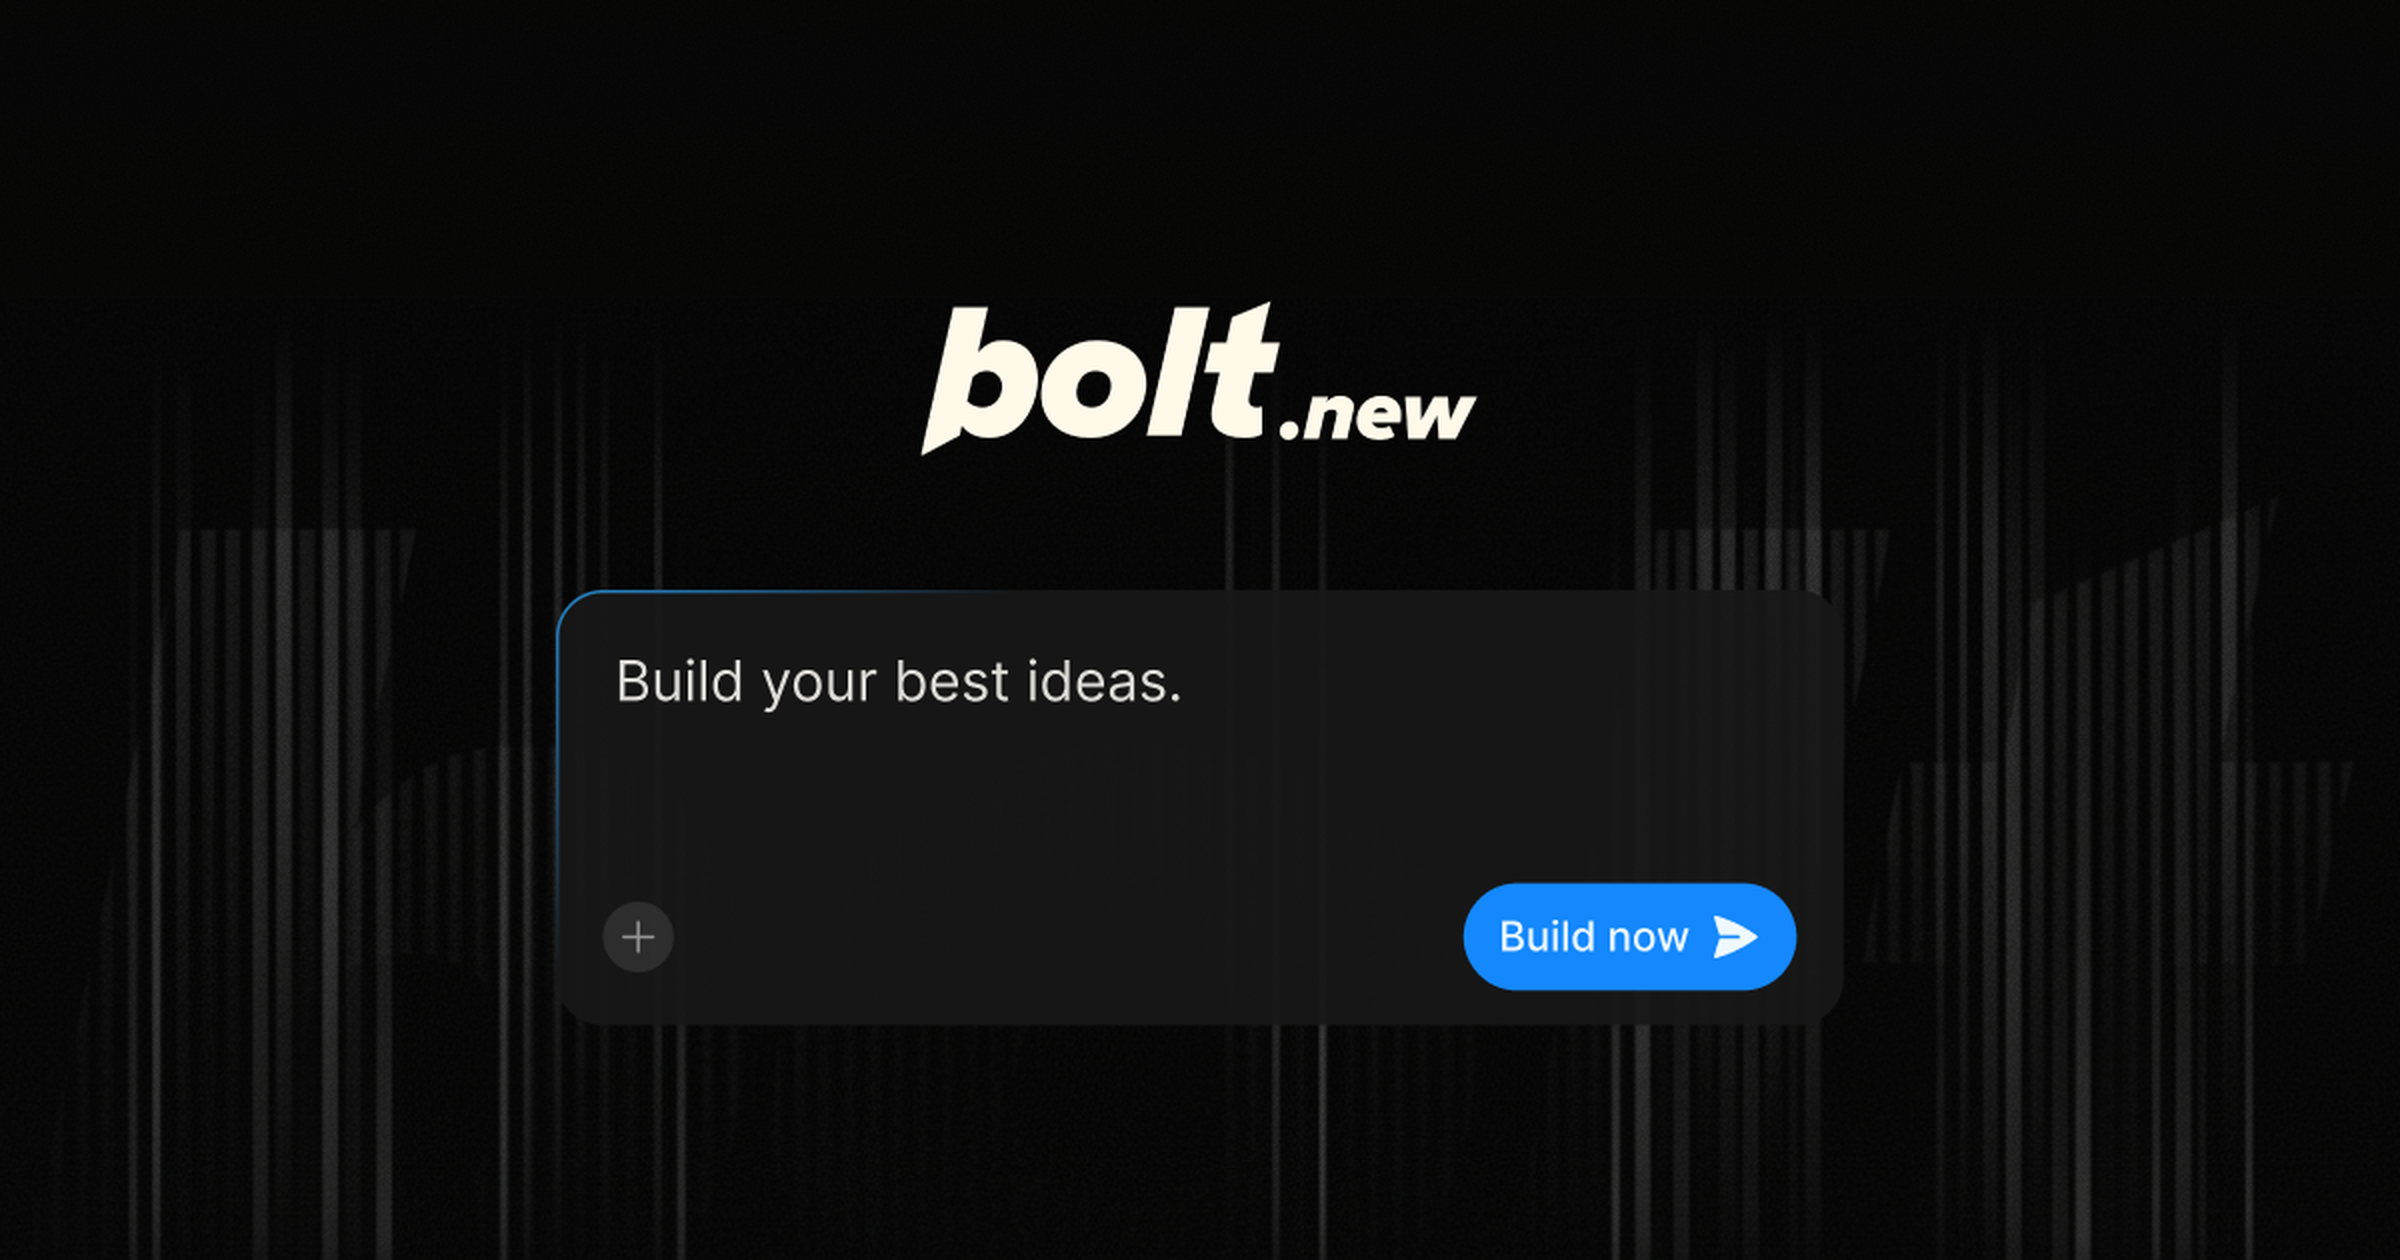
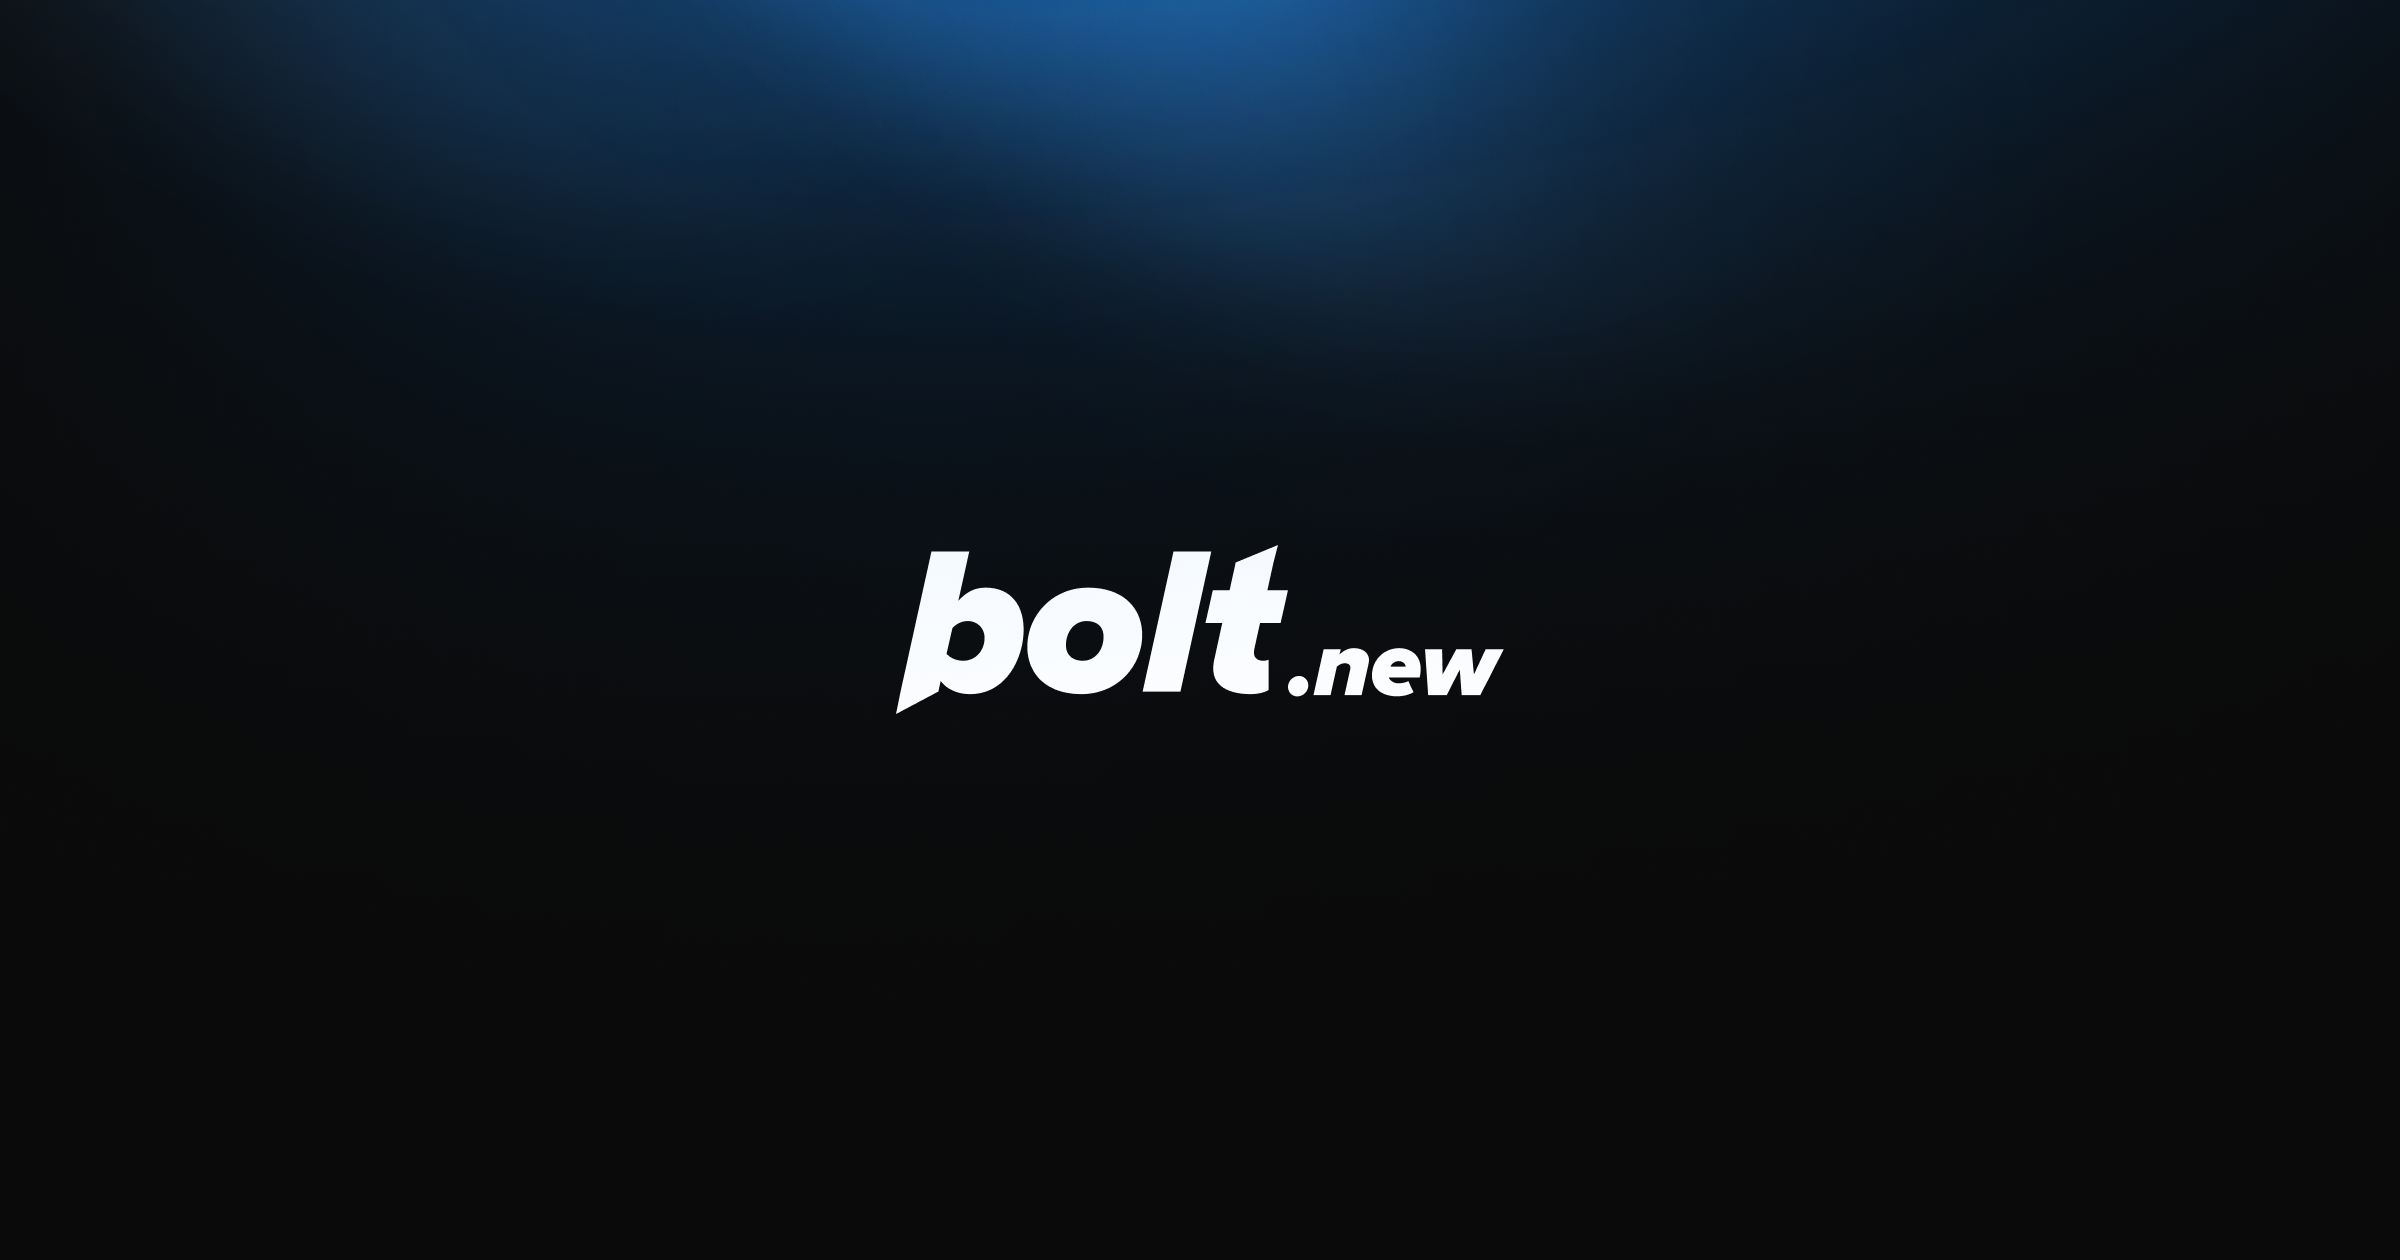
marketing/templates: scope new OG image to templates only
The previous commit put the new bolt.new OG artwork on the shared
og-image-default.* files. That is the site-wide default the blog inherits (in
prod, blog OG loads from bolt-public-pages.pages.dev/.../og-image-default.png),
and the blog is CMS-backed with its own per-post OG images. Decoupled:

- og-image-default.jpg / .png restored to their prior shared default (untouched
  by the blog change; blog references the production host regardless).
- New artwork lives at og-templates.jpg (1200x630) and og-templates.png
  (2400x1260, prod port path).
- Only the 2 templates pages repointed to og-templates; the PROD NOTE mapping
  updated to /public-page-assets/og-templates.png so a future company-repo port
  doesn't overwrite the blog's shared default.

diff --git a/marketing/templates/index.html b/marketing/templates/index.html
@@ -7,17 +7,17 @@
 <meta name="description" content="Start from a template. Portfolios, landing pages, internal tools, MVPs, dashboards, and ecommerce — clone, customize, and ship today.">
 <meta name="robots" content="noindex,nofollow">
 <!-- Open Graph / Twitter — new bolt.new share image.
-     PROD NOTE: on port, og:image maps to /public-page-assets/og-image-default.png
+     PROD NOTE: on port, og:image maps to /public-page-assets/og-templates.png
      (the site default) and og:url to the bolt.new/templates route. -->
 <meta property="og:type" content="website">
 <meta property="og:url" content="https://garyliusf.github.io/Enterprise/marketing/templates/">
 <meta property="og:title" content="Templates — Bolt">
 <meta property="og:description" content="Start from a template. Portfolios, landing pages, internal tools, MVPs, dashboards, and ecommerce — clone, customize, and ship today.">
-<meta property="og:image" content="https://garyliusf.github.io/Enterprise/images/og-image-default.jpg">
+<meta property="og:image" content="https://garyliusf.github.io/Enterprise/images/og-templates.jpg">
 <meta property="twitter:card" content="summary_large_image">
 <meta property="twitter:title" content="Templates — Bolt">
 <meta property="twitter:description" content="Start from a template. Portfolios, landing pages, internal tools, MVPs, dashboards, and ecommerce — clone, customize, and ship today.">
-<meta property="twitter:image" content="https://garyliusf.github.io/Enterprise/images/og-image-default.jpg">
+<meta property="twitter:image" content="https://garyliusf.github.io/Enterprise/images/og-templates.jpg">
 <link rel="preconnect" href="https://fonts.googleapis.com">
 <link rel="preconnect" href="https://fonts.gstatic.com" crossorigin>
 <link href="https://fonts.googleapis.com/css2?family=Inter:wght@300;400;500;600;700&family=Silkscreen:wght@400;700&family=Cormorant+Garamond:ital,wght@0,400;1,400;1,500&display=swap" rel="stylesheet">

diff --git a/marketing/templates/detail/index.html b/marketing/templates/detail/index.html
@@ -7,17 +7,17 @@
 <meta name="description" content="Bolt template detail — preview, features, and one-click clone to start customizing.">
 <meta name="robots" content="noindex,nofollow">
 <!-- Open Graph / Twitter — new bolt.new share image.
-     PROD NOTE: on port, og:image maps to /public-page-assets/og-image-default.png
+     PROD NOTE: on port, og:image maps to /public-page-assets/og-templates.png
      (the site default) and og:url to the bolt.new/templates/… route. -->
 <meta property="og:type" content="website">
 <meta property="og:url" content="https://garyliusf.github.io/Enterprise/marketing/templates/detail/">
 <meta property="og:title" content="Template Detail — Bolt">
 <meta property="og:description" content="Bolt template detail — preview, features, and one-click clone to start customizing.">
-<meta property="og:image" content="https://garyliusf.github.io/Enterprise/images/og-image-default.jpg">
+<meta property="og:image" content="https://garyliusf.github.io/Enterprise/images/og-templates.jpg">
 <meta property="twitter:card" content="summary_large_image">
 <meta property="twitter:title" content="Template Detail — Bolt">
 <meta property="twitter:description" content="Bolt template detail — preview, features, and one-click clone to start customizing.">
-<meta property="twitter:image" content="https://garyliusf.github.io/Enterprise/images/og-image-default.jpg">
+<meta property="twitter:image" content="https://garyliusf.github.io/Enterprise/images/og-templates.jpg">
 <link rel="preconnect" href="https://fonts.googleapis.com">
 <link rel="preconnect" href="https://fonts.gstatic.com" crossorigin>
 <link href="https://fonts.googleapis.com/css2?family=Inter:wght@300;400;500;600;700&family=Silkscreen:wght@400;700&family=Cormorant+Garamond:ital,wght@0,400;1,400;1,500&display=swap" rel="stylesheet">
